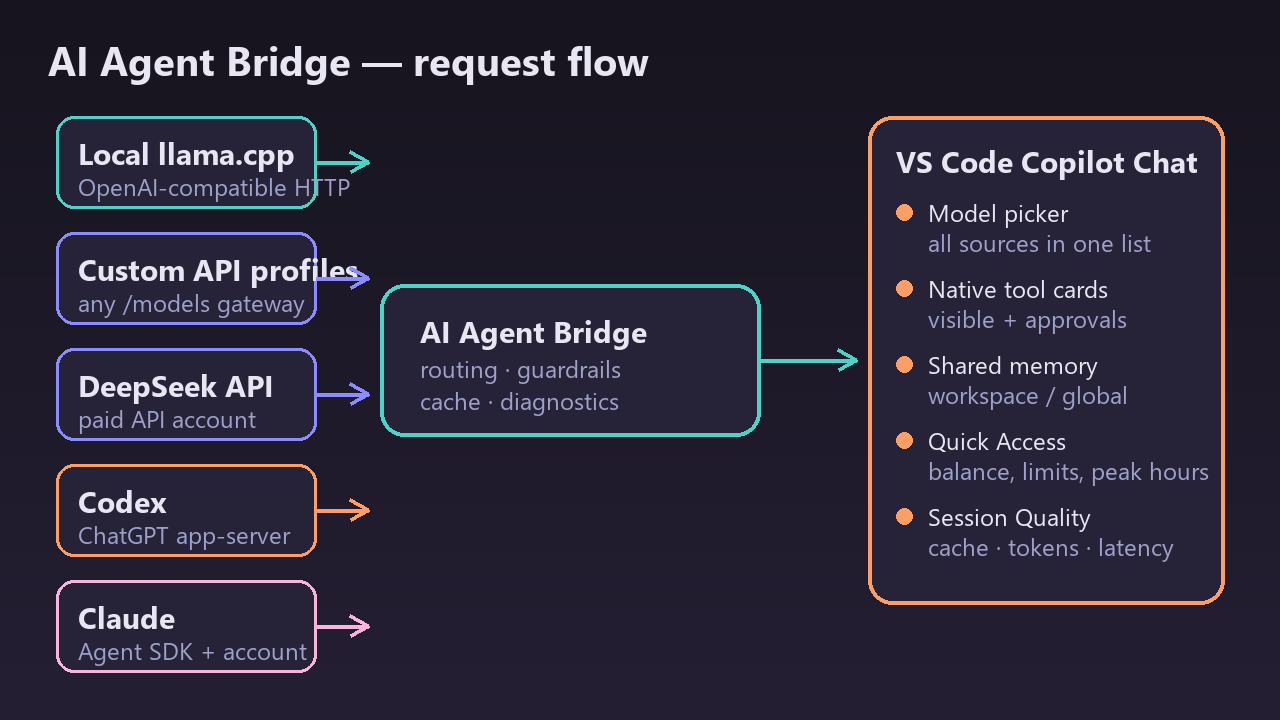
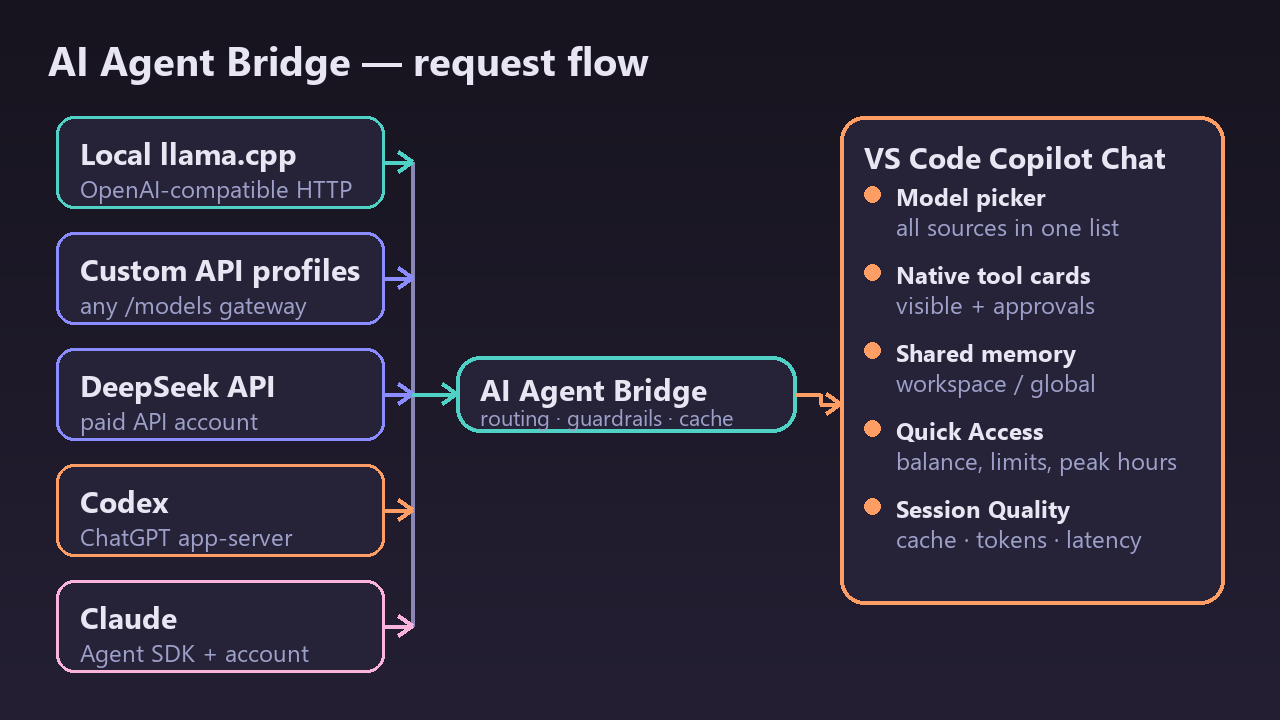
release: stable 1.14.1 (manage api providers fix, architecture diagram rebuild, clickable badges)

diff --git a/src/extension.ts b/src/extension.ts
@@ -27,6 +27,8 @@ import { registerModelBehaviorCommands } from "./ui/model-behavior-commands";
 import { LlamaQuickActionsProvider } from "./ui/quick-access";
 import { SessionQualityPanel } from "./ui/session-quality-panel";
 import { MemoryManagerPanel, estimateMemoryTokens } from "./ui/memory-manager";
+import { ApiProviderManagerPanel } from "./ui/api-provider-manager";
+import { ApiProviderService } from "./api-providers/api-provider-service";
 import { CodexChatModelProvider, type CodexUsageRecord } from "./codex/codex-provider";
 import { ClaudeChatModelProvider, type ClaudeLiveTurnUpdate } from "./claude/claude-provider";
 import { classifyCodexTurnCache } from "./context/cache-diagnostics";
@@ -554,6 +556,10 @@ export async function activate(context: vscode.ExtensionContext): Promise<void> 
 		})
 	);
 
+	// API provider profiles (multi-endpoint manager) share the model-source path.
+	const apiProviderService = new ApiProviderService(context.globalState, context.secrets);
+	context.subscriptions.push(apiProviderService);
+
 	// Llama.cpp Provider
 	const llamaProvider = new LlamaCppChatModelProvider(
 		context.secrets,
@@ -561,7 +567,8 @@ export async function activate(context: vscode.ExtensionContext): Promise<void> 
 		logService,
 		memoryService,
 		context.globalState,
-		context.globalStorageUri.fsPath
+		context.globalStorageUri.fsPath,
+		() => apiProviderService.getModelSources()
 	);
 	const codexProvider = new CodexChatModelProvider(extVersion, logService, context.workspaceState);
 	const claudeProvider = new ClaudeChatModelProvider(extVersion, logService, context.workspaceState);
@@ -987,6 +994,15 @@ export async function activate(context: vscode.ExtensionContext): Promise<void> 
 			if (!opened) {
 				vscode.window.showWarningMessage("Unable to open the Local LLM sidebar automatically. Use View: Open View...");
 			}
+		})
+	);
+
+	context.subscriptions.push(
+		vscode.commands.registerCommand("llamacpp.openApiProviders", () => {
+			ApiProviderManagerPanel.createOrShow(
+				apiProviderService,
+				() => llamaProvider.refreshLanguageModelChatInformation()
+			);
 		})
 	);
 

diff --git a/src/ui/api-provider-manager.ts b/src/ui/api-provider-manager.ts
@@ -291,6 +291,7 @@ export class ApiProviderManagerPanel {
 				case "toggle":
 					await this.service.setEnabled(String(data.id ?? ""), data.enabled === true);
 					this.status = data.enabled ? "Provider enabled." : "Provider disabled.";
+					this.refreshModels();
 					break;
 				case "delete": {
 					const profile = this.service.get(String(data.id ?? ""));
@@ -310,6 +311,7 @@ export class ApiProviderManagerPanel {
 						this.editingId = undefined;
 					}
 					this.status = `Deleted ${profile.name}.`;
+					this.refreshModels();
 					break;
 				}
 				case "save": {
@@ -322,6 +324,7 @@ export class ApiProviderManagerPanel {
 					});
 					this.editingId = undefined;
 					this.status = `Saved ${profile.name}.`;
+					this.refreshModels();
 					break;
 				}
 				case "refreshModels":

diff --git a/src/test/branding.test.ts b/src/test/branding.test.ts
@@ -58,7 +58,7 @@ suite("AI Agent Bridge branding", () => {
 	test("keeps the main README release and development facts current", () => {
 		const readme = fs.readFileSync(path.join(root, "README.md"), "utf8");
 		assert.match(readme, /^# AI Agent Bridge for VS Code/m);
-			assert.ok(readme.includes("**Stable release: 1.14.0. Current local development build: 1.14.0.**"));
+			assert.ok(readme.includes("**Stable release: 1.14.1. Current local development build: 1.14.1.**"));
 		assert.match(readme, /396 extension-host tests/);
 		assert.match(readme, /Patch v22/);
 		assert.doesNotMatch(readme, /Local LLM Chat Provider|Local LLM:|Stable release: 1.9.0|283 extension-host tests|Patch v16/);

diff --git a/scripts/generate-brand-assets.py b/scripts/generate-brand-assets.py
@@ -222,12 +222,13 @@ def draw_architecture():
     img = vertical_gradient((w, h), BG_TOP, BG_BOTTOM).convert("RGBA")
     d = ImageDraw.Draw(img)
 
-    f_title = ImageFont.truetype(FONT_BOLD, 40)
-    f_box = ImageFont.truetype(FONT_BOLD, 30)
-    f_small = ImageFont.truetype(FONT_REG, 24)
+    d.text((48, 32), "AI Agent Bridge — request flow", font=ImageFont.truetype(FONT_BOLD, 40), fill=TEXT)
 
-    d.text((48, 32), "AI Agent Bridge — request flow", font=f_title, fill=TEXT)
+    def arrow_right(color, x, cy):
+        d.line([(x, cy), (x - 14, cy - 10)], fill=color, width=4)
+        d.line([(x, cy), (x - 14, cy + 10)], fill=color, width=4)
 
+    # --- Left: source boxes, one shared width that fits every text ---
     sources = [
         ("Local llama.cpp", "OpenAI-compatible HTTP", TEAL),
         ("Custom API profiles", "any /models gateway", BLUE),
@@ -235,28 +236,54 @@ def draw_architecture():
         ("Codex", "ChatGPT app-server", ORANGE),
         ("Claude", "Agent SDK + account", (250, 180, 220)),
     ]
-    box_w, box_h = 260, 92
+    name_font = ImageFont.truetype(FONT_BOLD, 30)
+    sub_font = ImageFont.truetype(FONT_REG, 24)
+    pad_x = 24
+    max_name_w = max(text_size(d, t, name_font)[0] for t, _, _ in sources)
+    max_sub_w = max(text_size(d, t, sub_font)[0] for t, _, _ in sources)
+    box_w = max(260, max_name_w + 2 * pad_x, max_sub_w + 2 * pad_x)
+    box_h, gap = 92, 24
     x0, y0 = 56, 116
+    box_positions = []
     for i, (name, sub, color) in enumerate(sources):
-        y = y0 + i * (box_h + 24)
+        y = y0 + i * (box_h + gap)
+        box_positions.append((y, color))
         rounded_panel(img, [x0, y, x0 + box_w, y + box_h], 18, PANEL, color, 3)
-        d.text((x0 + 22, y + 16), name, font=f_box, fill=TEXT)
-        d.text((x0 + 22, y + 54), sub, font=f_small, fill=MUTED)
-        d.line([(x0 + box_w, y + box_h / 2), (368, y + box_h / 2)], fill=color, width=4)
-        d.line([(368, y + box_h / 2), (350, y + box_h / 2 - 10)], fill=color, width=4)
-        d.line([(368, y + box_h / 2), (350, y + box_h / 2 + 10)], fill=color, width=4)
+        d.text((x0 + pad_x, y + 16), name, font=name_font, fill=TEXT)
+        d.text((x0 + pad_x, y + 56), sub, font=sub_font, fill=MUTED)
 
-    rounded_panel(img, [380, 284, 760, 436], 24, PANEL, TEAL, 4)
-    d.text((420, 310), "AI Agent Bridge", font=f_box, fill=TEXT)
-    d.text((420, 352), "routing · guardrails", font=f_small, fill=MUTED)
-    d.text((420, 384), "cache · diagnostics", font=f_small, fill=MUTED)
+    first_cy = box_positions[0][0] + box_h / 2
+    last_cy = box_positions[-1][0] + box_h / 2
+    mid_y = (first_cy + last_cy) / 2
+    bus_x = x0 + box_w + 28
 
-    d.line([(760, 360), (856, 360)], fill=TEAL, width=4)
-    d.line([(856, 360), (838, 350)], fill=TEAL, width=4)
-    d.line([(856, 360), (838, 370)], fill=TEAL, width=4)
+    # vertical bus joins every source exit; stubs point right into the bus
+    d.line([(bus_x, first_cy), (bus_x, last_cy)], fill=(138, 134, 182), width=4)
+    for y, color in box_positions:
+        cy = y + box_h / 2
+        d.line([(x0 + box_w, cy), (bus_x, cy)], fill=color, width=4)
+        arrow_right(color, bus_x, cy)
 
-    rounded_panel(img, [868, 116, 1224, 604], 24, PANEL, ORANGE, 4)
-    d.text((896, 140), "VS Code Copilot Chat", font=f_box, fill=TEXT)
+    # --- Center: bridge block, vertically centered on the sources ---
+    center_w, center_h = 340, 76
+    cx0 = bus_x + 44
+    cy0 = mid_y - center_h / 2
+    rounded_panel(img, [cx0, cy0, cx0 + center_w, cy0 + center_h], 24, PANEL, TEAL, 4)
+    f_box = ImageFont.truetype(FONT_BOLD, 30)
+    f_small = ImageFont.truetype(FONT_REG, 22)
+    d.text((cx0 + 24, cy0 + 12), "AI Agent Bridge", font=f_box, fill=TEXT)
+    center_sub = "routing · guardrails · cache"
+    center_sub_font = fit_font(d, center_sub, FONT_REG, center_w - 48, 22, 18)
+    d.text((cx0 + 24, cy0 + 46), center_sub, font=center_sub_font, fill=MUTED)
+
+    # connector bus -> center, arrowhead points right into the block
+    d.line([(bus_x, mid_y), (cx0, mid_y)], fill=TEAL, width=4)
+    arrow_right(TEAL, cx0, mid_y)
+
+    # --- Right: VS Code block; horizontal connector through the row gap ---
+    vy0, vy1 = 116, 604
+    vx1 = 1224
+    vx0 = cx0 + center_w + 44
     rows = [
         ("Model picker", "all sources in one list"),
         ("Native tool cards", "visible + approvals"),
@@ -264,15 +291,25 @@ def draw_architecture():
         ("Quick Access", "balance, limits, peak hours"),
         ("Session Quality", "cache · tokens · latency"),
     ]
-    for i, (name, sub) in enumerate(rows):
-        y = 196 + i * 76
-        d.ellipse([896, y + 8, 912, y + 24], fill=ORANGE)
-        d.text((928, y), name, font=f_small, fill=TEXT)
-        d.text((928, y + 30), sub, font=f_small, fill=MUTED)
+    row_y = vy0 + 64
+    row_h = 78
+    gap_y = vy0 + 64 + 3 * row_h - 10  # sits between the 3rd and 4th rows
+    d.line([(cx0 + center_w, mid_y), (cx0 + center_w + 24, mid_y)], fill=ORANGE, width=4)
+    d.line([(cx0 + center_w + 24, mid_y), (cx0 + center_w + 24, gap_y)], fill=ORANGE, width=4)
+    d.line([(cx0 + center_w + 24, gap_y), (vx0, gap_y)], fill=ORANGE, width=4)
+    arrow_right(ORANGE, vx0, gap_y)
+
+    rounded_panel(img, [vx0, vy0, vx1, vy1], 24, PANEL, ORANGE, 4)
+    d.text((vx0 + 24, vy0 + 20), "VS Code Copilot Chat", font=f_box, fill=TEXT)
+    row_name_font = ImageFont.truetype(FONT_BOLD, 24)
+    for name, sub in rows:
+        d.ellipse([vx0 + 24, row_y + 6, vx0 + 40, row_y + 22], fill=ORANGE)
+        d.text((vx0 + 56, row_y), name, font=row_name_font, fill=TEXT)
+        sub_fit = fit_font(d, sub, FONT_REG, vx1 - vx0 - 80, 24, 18)
+        d.text((vx0 + 56, row_y + 30), sub, font=sub_fit, fill=MUTED)
+        row_y += row_h
 
     return img
-
-
 def main():
     # NEVER overwrite assets/logo.png: it is the official logo maintained by
     # the user. The placeholder below is only a fallback for the preview

diff --git a/docs/RELEASE_NOTES.md b/docs/RELEASE_NOTES.md
@@ -1,67 +1,39 @@
-# AI Agent Bridge 1.14.0 — release notes
+# AI Agent Bridge 1.14.1 — release notes
 
-Storefront and stability release. Consolidates the 1.13.1–1.13.3 development
-patches — most importantly, Claude finally receives your new messages while a
-tool chain is running — plus the repository makeover: README showcase, real
-logo and screenshots, GitHub metadata, and measured cache-hit numbers.
+Hotfix release. The 1.14.0 storefront advertised **Manage API Providers** in
+the README and Quick Access, but the command was declared in `package.json`
+and never registered in the extension host — the button silently did nothing.
+This release makes the advertised feature actually work, plus two storefront
+fixes.
 
-## 1. Claude: follow-up messages reach the resumed session
+## 1. Manage API Providers now works
 
-Previously a new user message sent while a tool chain was running ("stop",
-"switch to the 3D task") was dropped: the continuation request only forwarded
-the tool results to the Agent SDK, so the model kept executing the old chain
-for minutes without ever seeing the new instruction.
+- `llamacpp.openApiProviders` is now registered and opens the API Provider
+  Manager panel (`ApiProviderManagerPanel`).
+- The profile service (`ApiProviderService`) is wired into model discovery via
+  the provider's `getApiModelSources` hook, so saved/enabled profiles
+  contribute their models to the VS Code model picker — not just to the
+  manager UI.
+- Toggling, saving, or deleting a profile refreshes the model catalog
+  automatically instead of requiring a manual "Refresh models" click.
 
-- The trailing user text of a continuation is now extracted
-  (`extractFollowUpUserText`) and pushed to the SDK as a fresh user message
-  right after the tool results.
-- `claude.chat.tool_resumed` now logs `followUpTextPresent` and
-  `followUpTextPreview` (first 120 chars), so delivery is observable in the
-  logs.
-- Regression tests cover pure tool continuations, fresh follow-ups, and stale
-  history that must not be mistaken for a follow-up.
+Scope note (unchanged from the README): the multi-endpoint flow is implemented
+and unit-tested, but has not yet been field-tested end-to-end against real
+third-party OpenAI-compatible gateways.
 
-## 2. Claude: 300 s active-turn timeout with a pending-tool guard
+## 2. Storefront fixes
 
-The active-turn watchdog failed long tool executions: the SDK is silent by
-design while a delegated tool runs, so the timer could fire mid-tool. Now the
-timer extends while any delegated tool is in flight, and real dead SDK streams
-still fail after 300 seconds instead of the old 90.
-
-## 3. DeepSeek peak hours in Quick Access (local time)
-
-DeepSeek switches to peak/off-peak billing on **Aug 16 2026, 16:00 UTC**:
-peak = 01:00–04:00 and 06:00–10:00 UTC (2× price), everything else is
-off-peak at half the peak rate.
-
-- The DeepSeek group in Quick Access shows a `Peak Hours` row with the current
-  billing state, both peak windows and the next transition in your local time.
-- While peak is active the row and group icon turn orange (`charts.orange`)
-  and the headline reads `PEAK 2×`; the highlight fades automatically when the
-  window ends.
-- Verified against the official pricing page on 2026-08-13
-  (https://api-docs.deepseek.com/quick_start/pricing). Logic lives in
-  `src/deepseek-peak-hours.ts` with tests for window boundaries, the
-  switchover instant, and midnight wrap-around.
-
-## 4. Repository storefront
-
-- README rebuilt as a showcase: logo, badges, clickable screenshots, install
-  section, model sources, honest comparison with Continue and Cline/Roo, and
-  the request-flow diagram.
-- Measured cache efficiency front and center: a real long-running DeepSeek
-  v4-pro session (266 turns, 267 segments) reached **99.3% prompt cache hit**
-  — 36.8M prompt tokens, 36.5M from cache, 3 misses. Cached input is billed at
-  a fraction of uncached input, so this directly reduces API cost.
-- Custom API profiles are documented as implemented for OpenAI-compatible
-  endpoints but not yet field-tested against third-party gateways.
-- New extension logo (512 px, transparent corners), social preview for link
-  shares, restored activity-bar icon, and refreshed GitHub description/topics.
+- **Architecture diagram rebuilt.** Source-box widths now derive from measured
+  text (no more overflowing labels), all source arrows join a vertical bus
+  that connects into the central "AI Agent Bridge" block, and the connector to
+  the VS Code block reaches its edge without crossing any text. The
+  generating function is fixed in `scripts/generate-brand-assets.py`.
+- **README badges are now links**: the release badge opens the latest GitHub
+  Release, the license badge opens `LICENSE`, and the CI badge opens the
+  workflow runs page.
 
 ## Verification
 
-- **396 extension-host tests passing** (VS Code 1.131, Windows).
+- 396 extension-host tests passing (VS Code 1.131, Windows).
 - Lint and TypeScript compilation clean.
-- Real Claude Opus smoke test: native tool call succeeded, second response
-  passed as `WARM`; cache creation 675+21, 5-hour usage 0%.
 - GitHub Actions CI and Release workflows green for this tag.

diff --git a/README.md b/README.md
@@ -4,9 +4,9 @@
 
 **Bridge local models, DeepSeek, Codex, and Claude into one native VS Code agent workflow.**
 
-![GitHub release](https://img.shields.io/github/v/release/MrLordCat/ai-agent-bridge?label=release)
-![License](https://img.shields.io/github/license/MrLordCat/ai-agent-bridge)
-![CI](https://github.com/MrLordCat/ai-agent-bridge/actions/workflows/ci.yml/badge.svg)
+[![GitHub release](https://img.shields.io/github/v/release/MrLordCat/ai-agent-bridge?label=release)](https://github.com/MrLordCat/ai-agent-bridge/releases/latest)
+[![License](https://img.shields.io/github/license/MrLordCat/ai-agent-bridge)](https://github.com/MrLordCat/ai-agent-bridge/blob/main/LICENSE)
+[![CI](https://github.com/MrLordCat/ai-agent-bridge/actions/workflows/ci.yml/badge.svg)](https://github.com/MrLordCat/ai-agent-bridge/actions/workflows/ci.yml)
 
 Every enabled source appears in the normal VS Code model picker. The selected
 model keeps the existing Chat UI, workspace context, tool cards, approval
@@ -48,7 +48,7 @@ package is deliberately distributed outside the gallery.
    [Releases](https://github.com/MrLordCat/ai-agent-bridge/releases/latest).
 2. Install it:
    ```sh
-   code --install-extension llama-vscode-chat-v1.14.0.vsix
+   code --install-extension llama-vscode-chat-v1.14.1.vsix
    ```
 3. Run `Developer: Reload Window`.
 
@@ -298,7 +298,7 @@ trust and policy, account entitlements, and enabled connectors/MCP servers.
 
 ## Development
 
-**Stable release: 1.14.0. Current local development build: 1.14.0.** The
+**Stable release: 1.14.1. Current local development build: 1.14.1.** The
 stable line consolidates the 1.13.x development patches: Claude follow-up
 messages are forwarded to the resumed session, the active-turn timeout is
 300 s with a pending-tool guard, DeepSeek peak-hours billing is shown in
@@ -309,7 +309,7 @@ screenshots, and measured cache-hit numbers.
 npm install
 npm run compile
 npm run lint
-npm test              # 396 extension-host tests in the current 1.14.0 dev patch
+npm test              # 396 extension-host tests in the current 1.14.1 dev patch
 npm run package       # → llama-vscode-chat-{version}.vsix
 code --install-extension ./llama-vscode-chat-{version}.vsix --force
 ```

diff --git a/CHANGELOG.md b/CHANGELOG.md
@@ -1,5 +1,19 @@
 # Changelog
 
+## 1.14.1 (stable) - 2026-08-14
+
+Hotfix for the 1.14.0 storefront release: "Manage API Providers" was
+advertised in the README and Quick Access, but the command was never
+registered — the button did nothing.
+
+- **Manage API Providers now works.** The `llamacpp.openApiProviders` command was
+  declared in `package.json` and referenced by Quick Access, but never
+  registered in the extension host — the button silently did nothing. The
+  command now opens the API Provider Manager panel, and the provider service
+  is wired into model discovery (`getApiModelSources`), so saved profiles
+  appear in the model picker. Toggling, saving, or deleting a profile
+  refreshes the model catalog automatically.
+
 ## 1.14.0 (stable) - 2026-08-14
 
 Consolidates dev patches 1.13.1–1.13.3 and the repository storefront.
